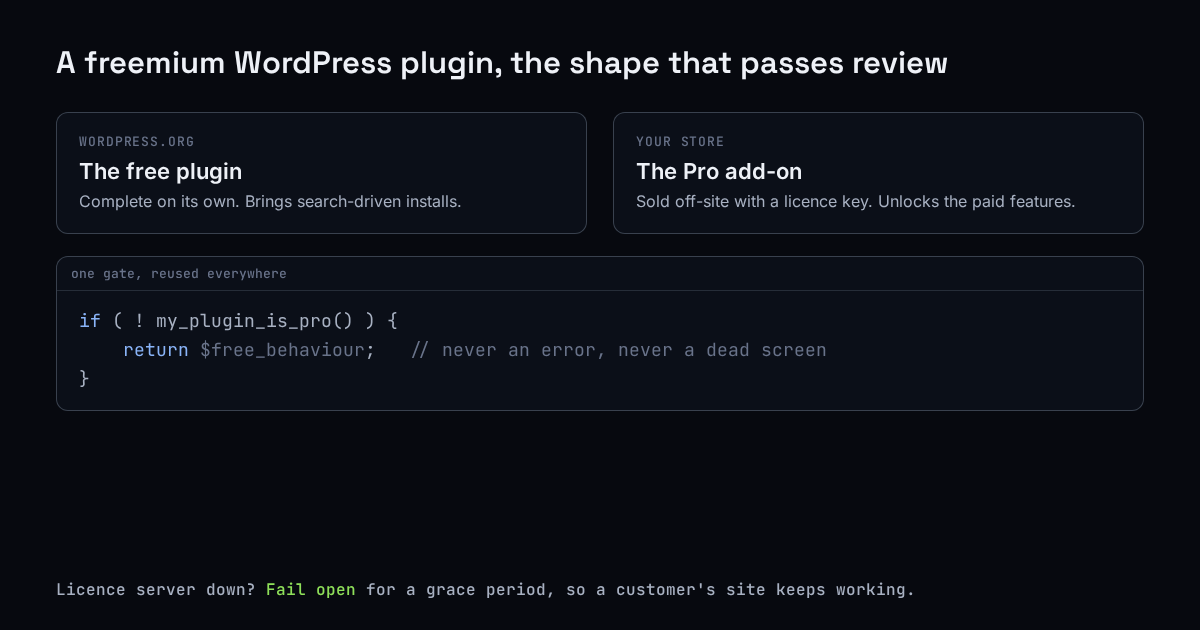
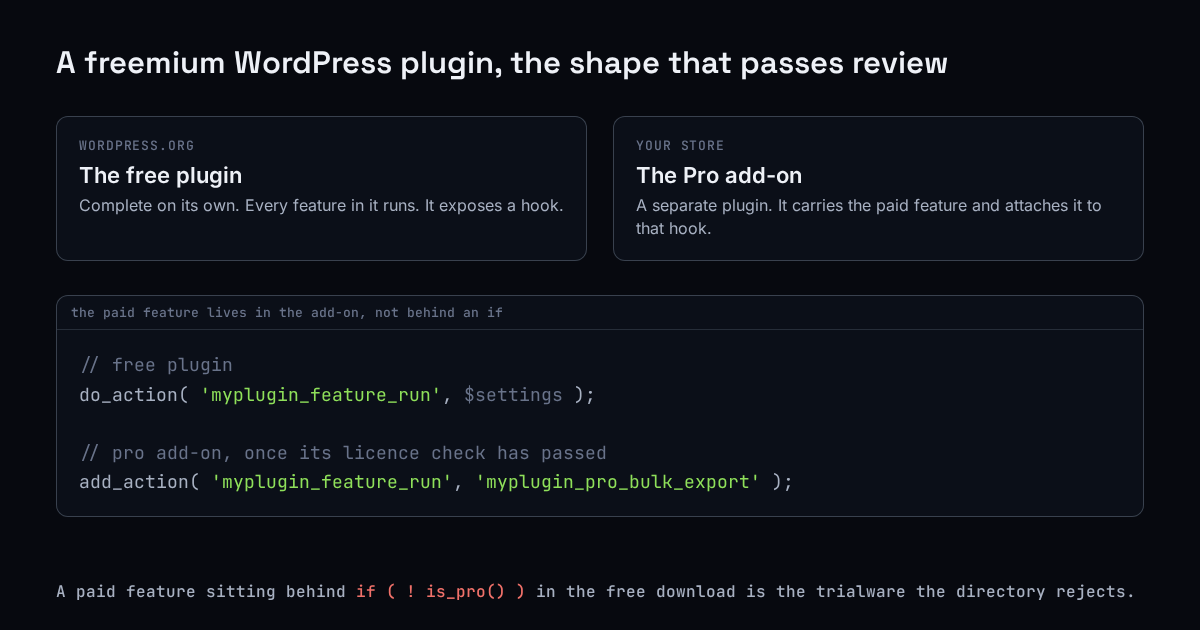
blog: the freemium post's share card taught the pattern the post says gets you removed
The post was corrected on 2026-11-19 to say that a paid feature behind an
`if ( ! is_pro() )` in the free download is the trialware wp.org rejects. Its OG
card still drew exactly that gate, captioned "one gate, reused everywhere" — so
every share of the post advertised the wrong architecture in a picture nobody
proof-reads. The card now shows the shape the post actually teaches: the free
plugin exposes a hook, the separate Pro add-on attaches the paid feature to it.

blog.html's row thumb also still carried the old claim in its alt text. That row
is aria-hidden, so apply() now sets its alt to "" rather than only its src —
fixed in the generator, so the next run does not reinstate a stale sentence.

diff --git a/art/build-freemium-wordpress-plugin.html b/art/build-freemium-wordpress-plugin.html
@@ -1,27 +1,30 @@
 <!doctype html><meta charset="utf-8"><meta name="robots" content="noindex"><link rel="stylesheet" href="art.css">
-<!-- blog-build-freemium-wordpress-plugin: the article's model: free on wp.org, Pro sold off-site, one gate. -->
+<!-- blog-build-freemium-wordpress-plugin: the article's model: free on wp.org, Pro sold off-site,
+     the paid feature living in the add-on rather than behind an if in the free download. -->
 <style>
   .wrap{position:absolute;inset:42px 56px}
   h1{font:600 31px 'Space Grotesk',sans-serif}
-  .row{margin-top:30px;display:grid;grid-template-columns:1fr 1fr;gap:26px}
+  .row{margin-top:34px;display:grid;grid-template-columns:1fr 1fr;gap:26px}
   .box{background:var(--raise);border:1px solid var(--line2);border-radius:12px;padding:20px 22px}
   .box .who{font:500 13px 'JetBrains Mono',monospace;color:var(--ink3);text-transform:uppercase;letter-spacing:.07em}
   .box b{display:block;font:600 22px Inter,sans-serif;margin-top:8px}
   .box span{display:block;font:400 16px/1.45 Inter,sans-serif;color:var(--ink2);margin-top:6px}
-  .gate{margin-top:22px}
-  pre{font-size:18px;line-height:1.6;padding:16px 22px}
-  .note{position:absolute;left:56px;right:56px;bottom:30px;font:500 16px 'JetBrains Mono',monospace;color:var(--ink2)}
-  .note b{color:var(--green2);font-weight:500}
+  .hook{margin-top:34px}
+  pre{font-size:18px;line-height:1.62;padding:20px 22px}
+  .note{position:absolute;left:56px;right:56px;bottom:28px;font:500 16px 'JetBrains Mono',monospace;color:var(--ink2)}
+  .note b{color:var(--red);font-weight:500}
 </style>
 <div class="wrap">
   <h1>A freemium WordPress plugin, the shape that passes review</h1>
   <div class="row">
-    <div class="box"><div class="who">WordPress.org</div><b>The free plugin</b><span>Complete on its own. Brings search-driven installs.</span></div>
-    <div class="box"><div class="who">your store</div><b>The Pro add-on</b><span>Sold off-site with a licence key. Unlocks the paid features.</span></div>
+    <div class="box"><div class="who">WordPress.org</div><b>The free plugin</b><span>Complete on its own. Every feature in it runs. It exposes a hook.</span></div>
+    <div class="box"><div class="who">your store</div><b>The Pro add-on</b><span>A separate plugin. It carries the paid feature and attaches it to that hook.</span></div>
   </div>
-  <div class="panel gate"><div class="bar">one gate, reused everywhere</div>
-<pre><span class="k">if</span> ( ! my_plugin_is_pro() ) {
-    <span class="k">return</span> <span class="p">$free_behaviour</span>;   <span class="p">// never an error, never a dead screen</span>
-}</pre></div>
+  <div class="panel hook"><div class="bar">the paid feature lives in the add-on, not behind an if</div>
+<pre><span class="p">// free plugin</span>
+do_action( <span class="s">'myplugin_feature_run'</span>, <span class="p">$settings</span> );
+
+<span class="p">// pro add-on, once its licence check has passed</span>
+add_action( <span class="s">'myplugin_feature_run'</span>, <span class="s">'myplugin_pro_bulk_export'</span> );</pre></div>
 </div>
-<div class="note">Licence server down? <b>Fail open</b> for a grace period, so a customer's site keeps working.</div>
+<div class="note">A paid feature sitting behind <b>if ( ! is_pro() )</b> in the free download is the trialware the directory rejects.</div>

diff --git a/blog.html b/blog.html
@@ -568,7 +568,7 @@
                     </div>
                 </li>
                 <li class="blog-row">
-                    <a class="blog-row-thumb" href="blog-build-freemium-wordpress-plugin.html" tabindex="-1" aria-hidden="true"><img src="images/blog/build-freemium-wordpress-plugin.png" alt="A freemium WordPress plugin: the free plugin on WordPress.org, the Pro add-on sold off-site, and one gate function that falls back to free" loading="lazy" width="200" height="105"></a>
+                    <a class="blog-row-thumb" href="blog-build-freemium-wordpress-plugin.html" tabindex="-1" aria-hidden="true"><img src="images/blog/build-freemium-wordpress-plugin.png" alt="" loading="lazy" width="200" height="105"></a>
                     <div class="blog-row-body">
                         <a class="blog-row-title" href="blog-build-freemium-wordpress-plugin.html">How to Build a Freemium WordPress Plugin</a>
                         <div class="blog-row-meta"><span class="blog-row-date">September 7, 2026</span><span class="blog-row-cat">How-To</span></div>

diff --git a/blog_art.py b/blog_art.py
@@ -192,11 +192,11 @@ def apply(slugs):
             else:
                 h = h.replace('<div class="article-content">', fig + '\n\n                <div class="article-content">', 1)
         post.write_text(h)
-        # the index's current markup: a decorative row thumb (alt="", aria-hidden), so only the src is ours to set
-        thumb = re.compile(rf'(<a class="blog-row-thumb" href="blog-{re.escape(slug)}\.html"[^>]*><img src=")[^"]*(")')
+        # the index's current markup: a decorative row thumb (alt="", aria-hidden), so we set the src and keep its alt empty: a stale alt there is a claim nobody proof-reads
+        thumb = re.compile(rf'(<a class="blog-row-thumb" href="blog-{re.escape(slug)}\.html"[^>]*><img src=")[^"]*(" alt=")[^"]*(")')
         card = re.compile(rf'(<a href="blog-{re.escape(slug)}\.html" class="blog-card"[^>]*>\s*<div class="blog-card-img"><img src=")[^"]*(" alt=")[^"]*(")')
         if thumb.search(index):
-            index = thumb.sub(rf"\g<1>{s['image']}\2", index)
+            index = thumb.sub(rf"\g<1>{s['image']}\g<2>\3", index)
         elif card.search(index):
             index = card.sub(rf"\g<1>{s['image']}\g<2>{alt}\3", index)
         else:
